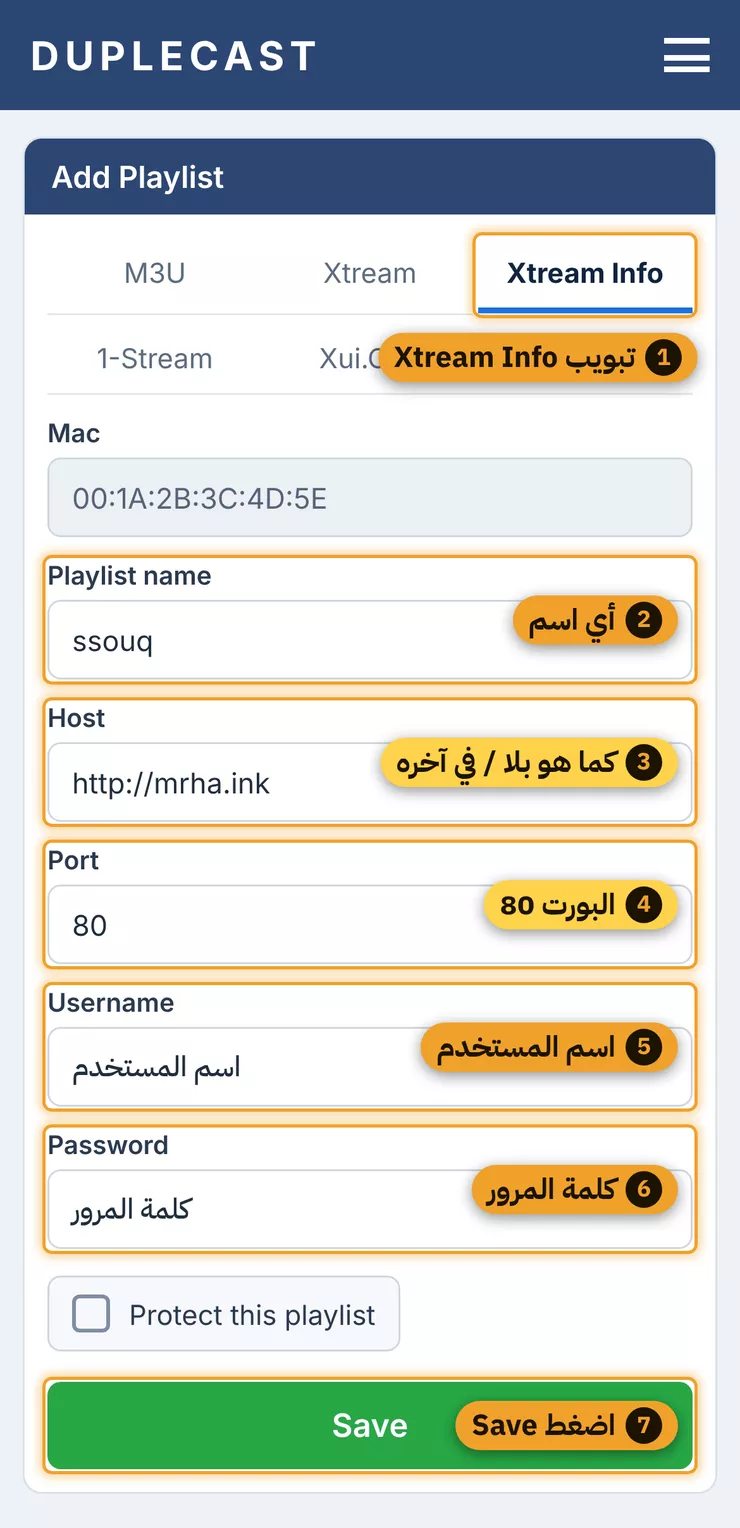
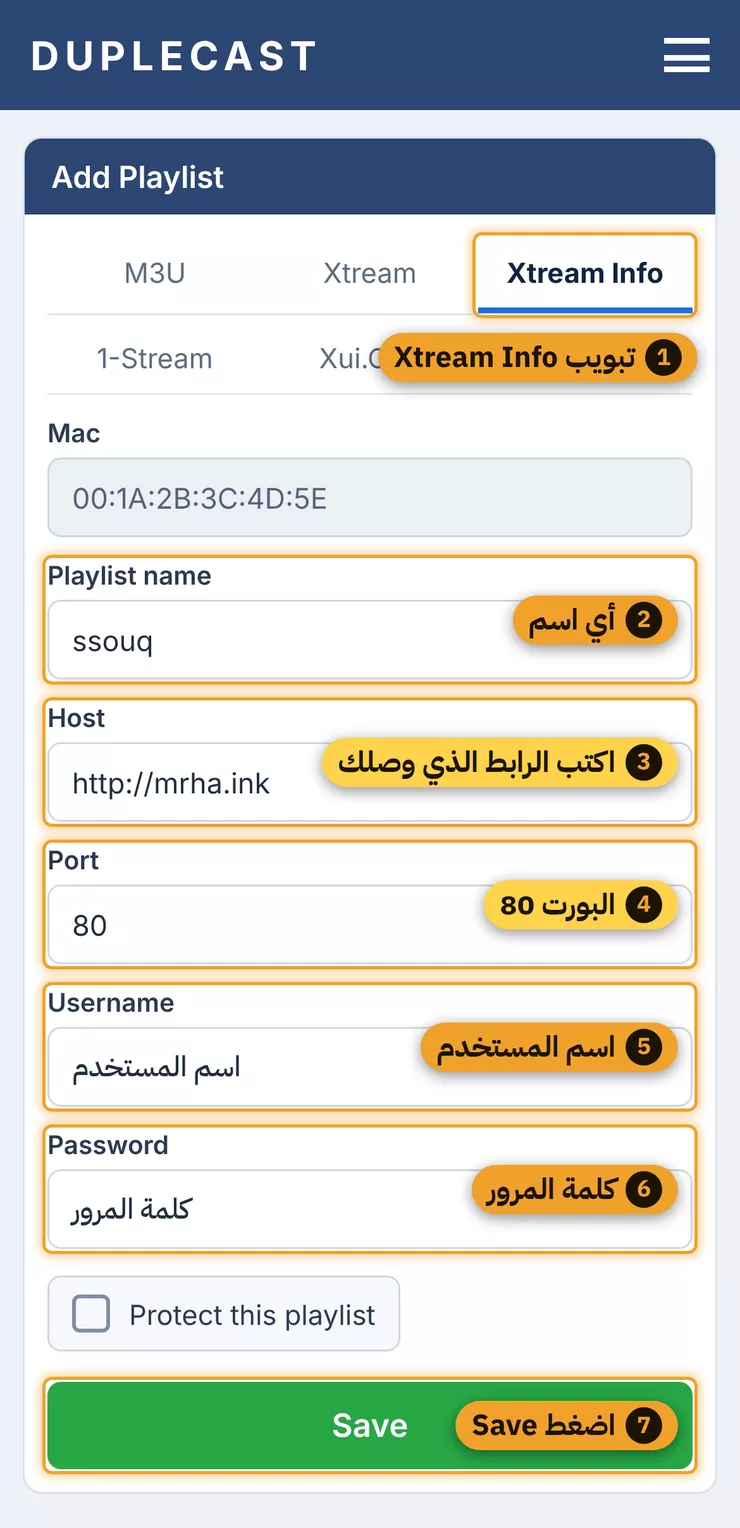
Duplecast: «اكتب الرابط الذي وصلك» في صورة النموذج، وصورة الطلب في المتجر تحت الخانات
العميل كان يظنّ أنه يكتب الرابط المكتوب في الصورة:
- بطاقة الهوست في الصورة: «اكتب الرابط الذي وصلك»، وخانة Host في النص: «الرابط الذي وصلك في طلبك».
- تحت الخانات مباشرة: الرابط في الصورة مثال فقط، ورابطك في المحتوى الرقمي بطلبك، مع صورة الطلب.
- تنبيه mrha.ink يقول إنه مثال، بلا تكرار صورة الطلب في آخر الخطوة.

Claude-Session: https://claude.ai/code/session_01MxVQo6KpPW47G7d5MvECgN

Changed region(s): [[0.4351, 0.4614, 0.8392, 0.5229]]

diff --git a/index.html b/index.html
@@ -707,19 +707,24 @@ const DUPLECAST_STEPS = [
     html: '<p>اختر تبويب <b dir="ltr">Xtream Info</b> ثم عبّئ الخانات:</p>'
       + '<div class="fields"><div class="f"><span dir="ltr">Mac</span><code>يظهر وحده — لا تغيّره</code></div>'
       + '<div class="f"><span dir="ltr">Playlist name</span><code>أي اسم، مثلًا ssouq</code></div>'
-      + '<div class="f"><span dir="ltr">Host</span><code dir="ltr">http://mrha.ink</code></div>'
+      + '<div class="f"><span dir="ltr">Host</span><code>الرابط الذي وصلك في طلبك</code></div>'
       + '<div class="f"><span dir="ltr">Port</span><code dir="ltr">80</code></div>'
       + '<div class="f"><span dir="ltr">Username</span><code>اسم المستخدم</code></div>'
       + '<div class="f"><span dir="ltr">Password</span><code>كلمة المرور</code></div>'
       + '<div class="f"><span dir="ltr">Protect this playlist</span><code>اتركه غير مفعّل</code></div></div>'
       + '<p>ثم اضغط <b dir="ltr">Save</b>.</p>'
+      + '<div class="note"><p><b>في خانة <span dir="ltr">Host</span> اكتب الرابط الذي وصلك أنت</b>، لا الرابط المكتوب في الصورة: '
+      + 'الرابط في الصورة مثال فقط. تجد رابطك مع اسم المستخدم وكلمة المرور في طلبك بالمتجر: افتح '
+      + '<a class="link" href="https://ssouq.com/account/orders" target="_blank" rel="noopener">صفحة طلباتك</a>، ثم طلبك، '
+      + 'ثم اضغط <b>المحتوى الرقمي</b> المحدَّد في الصورة، فالبيانات لا تظهر قبل الضغط عليه.</p>'
+      + '<img src="/static/img/order-digital.webp" alt="زر المحتوى الرقمي داخل صفحة الطلب" loading="lazy"></div>'
       + '<div class="note">اكتب في <b dir="ltr">Port</b> الرقم <code dir="ltr">80</code> دائمًا، ولا تكتب رقمًا مع الرابط في <b dir="ltr">Host</b>.</div>'
       + '<div class="note http"><b>اكتب رابط الهوست كما هو تمامًا</b>'
       + '<div class="hv"><code dir="ltr" class="ok">http://mrha.ink</code><b>✅ صحيح</b></div>'
-      + '<div class="hv"><code dir="ltr" class="bad">http://mrha.ink/</code><b>❌ خطأ — شرطة / في آخره</b></div>'
-      + '<div class="hv"><code dir="ltr" class="bad">https://mrha.ink</code><b>❌ خطأ — https بدل http</b></div>'
-      + '<p>الرابط والبيانات هنا وفي الصور مثال فقط: اكتب رابط الهوست الذي وصلك في بيانات اشتراكك، بلا شرطة <b dir="ltr">/</b> في آخره.</p></div>'
-      + HTTP_NOTE + CREDS },
+      + '<div class="hv"><code dir="ltr" class="bad">http://mrha.ink/</code><b>❌ خطأ</b></div>'
+      + '<div class="hv"><code dir="ltr" class="bad">https://mrha.ink</code><b>❌ خطأ</b></div>'
+      + '<p>الرابط <b dir="ltr">mrha.ink</b> هنا مثال فقط: اكتب رابطك الذي وصلك بالطريقة نفسها، بلا شرطة <b dir="ltr">/</b> في آخره.</p></div>'
+      + HTTP_NOTE },
   { title: "تأكّد أن القائمة حُفظت", img: "/static/img/webos-duplecast-saved.webp",
     html: '<p>تظهر قائمتك في جدول <b dir="ltr">Playlists</b> باسمها، مع رسالة <b dir="ltr">Playlist added successfully</b>. '
       + 'وإن أخطأت في شيء فاضغط <b dir="ltr">Edit</b> بجانبها وصحّحه.</p>' },

diff --git a/tools/video/shots_duplecast.js b/tools/video/shots_duplecast.js
@@ -24,7 +24,7 @@ const SPECS = [
             { r: WEB.add, n: 2, t: 'اضغط Add Playlist', at: 'left' }] },
   { out: 'webos-duplecast-form.webp', src: 'dc_form.webp', w: 740, fs: 46,
     marks: [{ r: WEB.tab, n: 1, t: 'تبويب Xtream Info', at: 'below' }, { r: WEB.name, n: 2, t: 'أي اسم', at: 'in' },
-            { r: WEB.host, n: 3, t: 'كما هو بلا / في آخره', at: 'in', hot: 1 }, { r: WEB.port, n: 4, t: 'البورت 80', at: 'in', hot: 1 },
+            { r: WEB.host, n: 3, t: 'اكتب الرابط الذي وصلك', at: 'in', hot: 1 }, { r: WEB.port, n: 4, t: 'البورت 80', at: 'in', hot: 1 },
             { r: WEB.user, n: 5, t: 'اسم المستخدم', at: 'in' }, { r: WEB.pass, n: 6, t: 'كلمة المرور', at: 'in' },
             { r: WEB.save, n: 7, t: 'اضغط Save', at: 'in' }] },
   { out: 'webos-duplecast-saved.webp', src: 'dc_saved.webp', crop: [0, 630, 1170, 786], w: 740, fs: 46,
